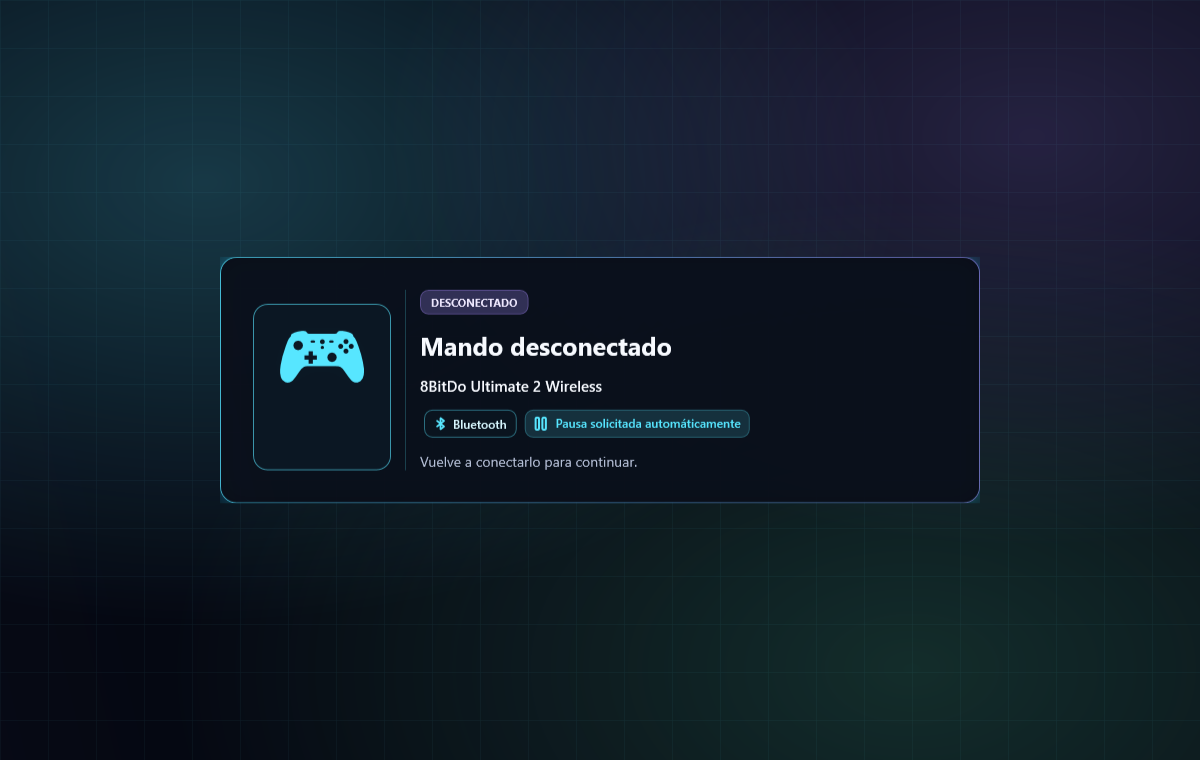
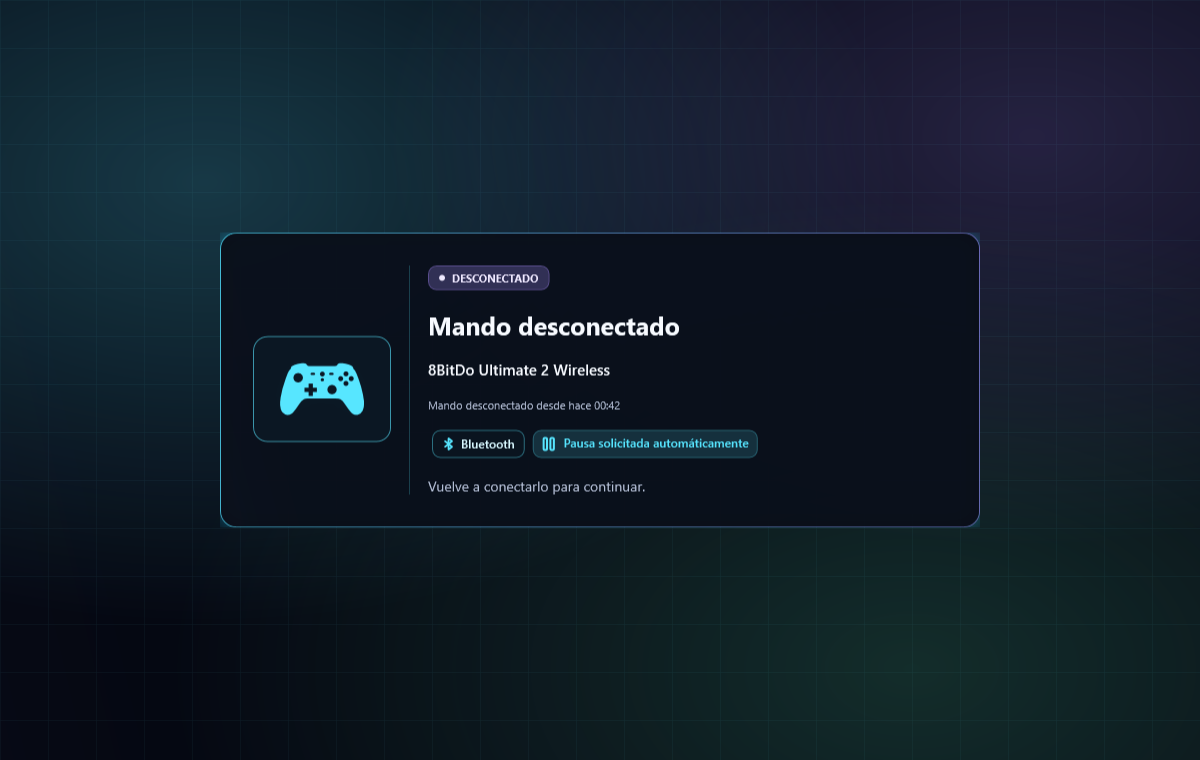
Add disconnect timer to NarianUX overlay

diff --git a/README.md b/README.md
@@ -54,6 +54,8 @@ Creator designs are installed from Controller Manager itself:
 
 Controller Manager keeps the last installed copy when the computer is offline. It downloads only releases compatible with the installed plugin version and never replaces a compatible release with an incompatible one.
 
+You can also install a downloaded pull-request artifact or another trusted `.csmtheme` directly: use **Install creator design** beside **Import visual profile** in either Appearance toolbar. Controller Manager shows the author and version before installing, rejects incompatible schema/plugin versions, validates the complete data-only package, and atomically replaces an older design with the same ID.
+
 ## For creators
 
 Do not fork the Controller Manager plugin repository to submit a design. Fork this repository instead.
@@ -71,7 +73,7 @@ Read the [complete Wiki](https://github.com/Naerian/controller-manager-creator-t
 
 ## Testing a pull request in Playnite
 
-Every pull request that changes a design produces a 14-day `creator-themes-pr-<number>` Actions artifact containing one test `.csmtheme` per changed design. Open the PR's **Checks → Validate creator themes → Artifacts** section to download it for inspection.
+Every pull request that changes a design produces a 14-day `creator-themes-pr-<number>` Actions artifact containing one test `.csmtheme` per changed design. Open the PR's **Checks → Validate creator themes → Artifacts** section, download it, and install the contained package from Controller Manager's **Install creator design** button.
 
 Maintainers can also perform a complete temporary installation directly from a trusted clone of `main`:
 
